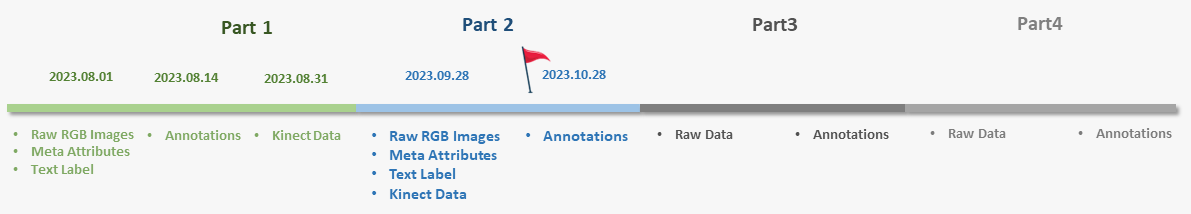
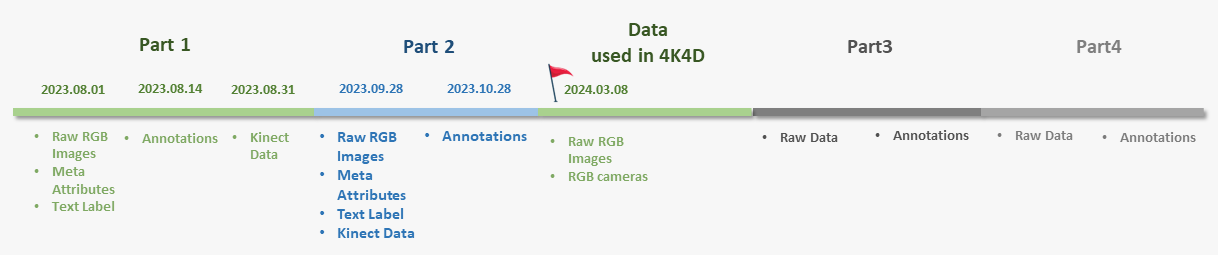
update timeline

diff --git a/inner-download.html b/inner-download.html
@@ -250,6 +250,10 @@
         </table>
       </div>
     </p>
+    <p>For ten cases metioned in <a href="https://zju3dv.github.io/4k4d/">4K4D</a>,
+      eight of them are <b>NOT</b> part of the official DNA-Rendering dataset.
+      However, in order to make fair comparison in the research community, we have decided to release the data.  
+    </p>
           <h4>Timeline</h4>
             <center><a href="assets/img/timeline.png"><img src="assets/img/timeline.png" width="85%"></a><br></center>
           <p>More data will be released soon. Please stay tuned.</p>
